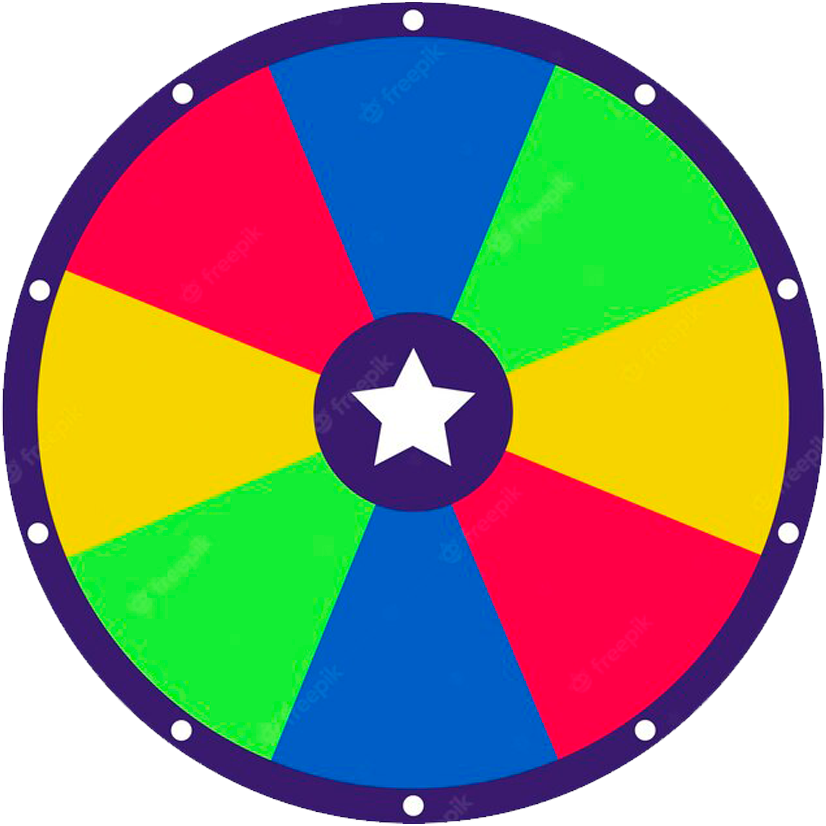
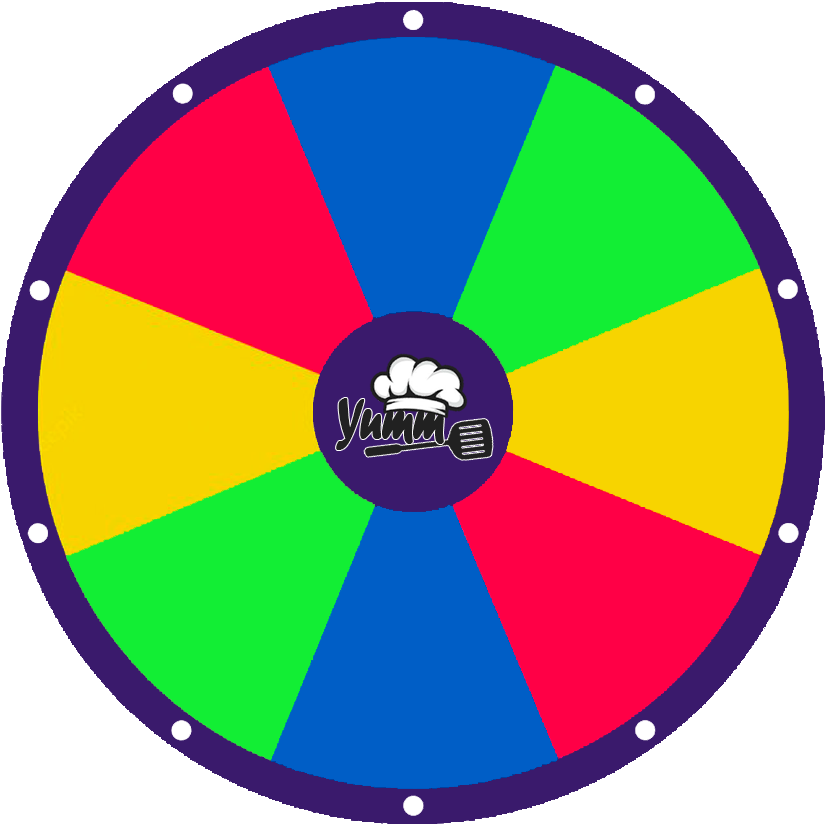
Config CoHere API

diff --git a/src/hooks/GetMealIdea.jsx b/src/hooks/GetMealIdea.jsx
@@ -1,0 +1,46 @@
+import React, {useState} from 'react'
+import ruleta from '../ruleta.png';
+
+
+const COHERE_API_KEY = 'SW291oCP7Zf34siESGiFAMlr3spDEnJM3UHL1M1B'
+const COHERE_API_GENERATE_URL = 'https://api.cohere.ai/generate'
+
+const GetMealIdea = () => {
+
+  const [getMeal, setGetMeal] = useState('')
+
+    async function getMealCoHere(input){
+      const response = await fetch(COHERE_API_GENERATE_URL, {
+        method: 'POST',
+        headers: {
+          'Content-Type': 'application/json',
+          Authorization: `BEARER ${COHERE_API_KEY}`
+        },
+        body: JSON.stringify({
+          model: 'command-xlarge-20221108',
+          prompt: 'list 3 dinner ideas',
+          max_tokens: 100,
+          temperature: 0.9,
+          k: 0,
+          p: 0.75,
+          frequency_penalty: 0,
+          presence_penalty: 0,
+          stop_sequences: [],
+          return_likelihoods: 'NONE'
+        })
+      })
+      const data = await response.json()
+      console.log(data)
+      setGetMeal(data.text)
+    }
+
+
+    return (
+      <div>
+        <img src={ruleta} className="App-ruleta" alt="ruleta" onClick={() => {getMealCoHere('James')}}/>
+        <p>{getMeal}</p>
+      </div>
+    )
+}
+
+export default GetMealIdea

diff --git a/src/App.css b/src/App.css
@@ -2,21 +2,9 @@
   text-align: center;
 }
 
-.App-logo {
-  height: 40vmin;
-  pointer-events: none;
-}
-
-@media (prefers-reduced-motion: no-preference) {
-  .App-logo {
-    animation: App-logo-spin infinite 20s linear;
-  }
-}
-
 .App-header {
   background-color: #282c34;
   min-height: 100vh;
-  display: flex;
   flex-direction: column;
   align-items: center;
   justify-content: center;
@@ -24,11 +12,29 @@
   color: white;
 }
 
-.App-link {
-  color: #61dafb;
+.App-logo {
+  height: 20vmin;
+  pointer-events: none;
 }
 
-@keyframes App-logo-spin {
+.App-ruleta {
+  height: 40vmin;
+  pointer-events: auto;
+  cursor: pointer;
+  transition: 0.3s;
+}
+
+@media (prefers-reduced-motion: no-preference) {
+  .App-ruleta {
+    animation: App-ruleta-spin infinite 20s linear;
+  }
+}
+
+.App-ruleta:hover {
+  height: 45vmin;
+}
+
+@keyframes App-ruleta-spin {
   from {
     transform: rotate(0deg);
   }

diff --git a/src/App.js b/src/App.js
@@ -1,15 +1,18 @@
-import logo from './ruleta.png';
+import logo from './logo.png';
 import './App.css';
+import GetMealIdea from './hooks/GetMealIdea'
 
 function App() {
+
+
   return (
     <div className="App">
       <header className="App-header">
-        <h1>YUMM!</h1>
-        <img src={logo} className="App-logo" alt="logo" />
-        <p>
-          Edit <code>src/App.js</code> and save to reload.
-        </p>
+        <img src={logo} className="App-logo" alt='logo'/>
+        <h5>What are we going to eat today?</h5>
+        
+        <GetMealIdea />
+
       </header>
     </div>
   );
